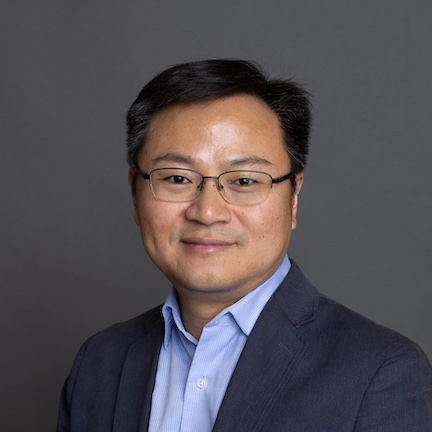
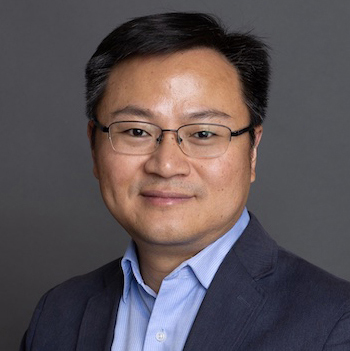
add more publications

diff --git a/publications.html b/publications.html
@@ -85,6 +85,19 @@
                 <li>Li, Jie, George Michelogiannakis, Samuel Maloney, Brandon Cook, Estela Suarez, John Shalf, and Yong Chen. "Job scheduling in high performance computing systems with disaggregated memory resources." In 2024 IEEE International Conference on Cluster Computing (CLUSTER), pp. 297-309. IEEE, 2024.</li>
                 <li>Li, Jie, George Michelogiannakis, Brandon Cook, John Shalf, and Yong Chen. "Scheduling and Allocation of Disaggregated Memory Resources in HPC Systems." In 2024 IEEE International Parallel and Distributed Processing Symposium Workshops (IPDPSW), pp. 1202-1203. IEEE, 2024.</li>
                 <li>Li, Jie, John D. Leidel, Brian Page, and Yong Chen. "Towards Cycle-accurate Simulation of xBGAS." In 2024 International Conference on Computing, Networking and Communications (ICNC), pp. 468-472. IEEE, 2024.</li>
+                <li>G. Ali, M. Side, S. Bhalachandra, T. Dang, A. Sill, Y. Chen. Understanding the Efficacy of Power Profiles: A Case Study ofAMD Instinct MI100 GPU. In Proceedings of the 28th IEEE High Performance Extreme Computing Conference (HPEC'24),2024.</li>
+                <li>M. Beebe, R. Gayatri, K. Gott, A. Lavely, M. Haseeb, B. Cook, and Y. Chen. A Performance Analysis of GPU-Aware MPIImplementations Over the Slingshot-11 Interconnect. In Proceedings of the 28th IEEE High Performance Extreme ComputingConference (HPEC'24), 2024.</li>
+                <li>A. Jordan and Y. Chen. Security Anomaly Detection in Enterprise GitHub. In Proceedings of 2024 ACM PEARC (Practice &Experience in Advanced Research Computing), Pages: 1-5, 2024.</li>
+              </ul>
+              <h3>Technologies or Techniques</h3><br>
+              <ul class="project technology">
+                <li>Software or Netware Disaggregation Aware Scheduler: <a href="https://github.com/Artlands/DisaggregationAwareScheduler" target="_blank">https://github.com/Artlands/DisaggregationAwareScheduler </a></li>
+                <li>Software or Netware Memory Safety Vulnerability Suite for xBGAS on Morello: <a href="https://github.com/mertside/xbrtime-simple/tree/main/security" target="_blank">https://github.com/mertside/xbrtime-simple/tree/main/security</a></li>  
+                <li>Software or Netware xBGAS REV-CPU simulator: <a href="https://github.com/Artlands/rev-xbgas" target="_blank">https://github.com/Artlands/rev-xbgas</a></li>
+                <li>Software or Netware xBGAS Runtime Library: <a href="https://github.com/Artlands/rev-xbgas-runtime" target="_blank">https://github.com/Artlands/rev-xbgas-runtime</a></li>
+                <li>Software or Netware OSSS-UCX: <a href="https://github.com/michael-beebe/osss-ucx" target="_blank">https://github.com/michael-beebe/osss-ucx</a></li>
+                <li>Software or Netware Openshmem-rs: <a href="https://docs.rs/crate/openshmem-rs/latest" target="_blank">https://docs.rs/crate/openshmem-rs/latest</a></li>
+                <li>Software or Netware Visualization tools: <a href="https://idatavisualizationlab.github.io/HPCC/" target="_blank">https://idatavisualizationlab.github.io/HPCC/</a></li>
               </ul>
             </div>
             <div class="collapse collection show" id="2023">
@@ -104,6 +117,13 @@
                 <li>B. Williams, Y. Chen, W. Poole and S. Poole. Exploring Challenges Associated with Employing SmartNICs as General-Purpose HPC Accelerators. Accepted to appear in Proceedings of the 28th IEEE High Performance Extreme ComputingConference (HPEC'23), 2023.</li>
                 <li>G. Ali, M. Side, S. Bhalachandra, N. J. Wright, and Y. Chen, Performance-aware Energy-efficient GPU Frequency Selectionusing DNN-based Models, In Proceedings of the 52nd International Conference on Parallel Processing (ICPP'23),2023.</li>
               </ul>
+              <h3>Technologies or Techniques</h3><br>
+              <ul class="project technology">
+                <li>Software or Netware Benchmarks for xBGAS Runtime for Morello: <a href="https://github.com/mertside/xbrtime-simple/tree/main/bench" target="_blank">https://github.com/mertside/xbrtime-simple/tree/main/bench</a></li>
+                <li>Software or Netware SHMEMVV: <a href="https://github.com/michael-beebe/shmemvv" target="_blank">https://github.com/michael-beebe/shmemvv</a></li>  
+                <li>Software or Netware SHMEMBENCH: <a href="https://github.com/michael-beebe/shmembench" target="_blank">https://github.com/michael-beebe/shmembench</a></li>
+                <li>Software or Netware Visualization tools: <a href="https://idatavisualizationlab.github.io/HPCC/" target="_blank">https://idatavisualizationlab.github.io/HPCC/</a></li>
+              </ul>
             </div>
             <div class="collapse collection show" id="2022">
               <h2>2022:</h2>
@@ -118,6 +138,13 @@
                 <li>Ghanzanfar Ali, Jon Hass, Alan Sill, Elham Hojati, Tommy Dang and Yong Chen. Redfish-Nagios: A Scalable Out-of-BandData Center Monitoring Framework Based on Redfish Telemetry Model. ACM 5th International Workshop on System andNetwork Telemetry and Analytics (SNTA'22) in conjunction with The 31st International Symposium on High-PerformanceParallel and Distributed Computing (HPDC'22)</li>
                 <li>T. Dang, N. Nguyen, J. Li, J. Hass, A. Sill, and Y. Chen. JobViewer: Graph-based Visualization for Monitoring High-Performance Computing System. Accepted to appear in Proceedings of The 9th IEEE/ACM International Conference on BigData Computing, Applications and Technologies (BDCAT'22), 2022.</li>
                 <li>T. Dang and N. Nguyen. MultiProjector: Temporal projection for multivariates time series. International Symposium on VisualComputing ISVC22, 2022. </li>
+                <li>C. Caon. Effective Management of Time Series Data. (2022). Texas Tech University.</li>
+              </ul>
+              <h3>Technologies or Techniques</h3><br>
+              <ul class="project technology">
+                <li>Software or Netware xBGAS Runtime for Morello: <a href="https://github.com/mertside/xbrtime-simple/tree/main/runtime" target="_blank">https://github.com/mertside/xbrtime-simple/tree/main/runtime</a></li>
+                <li>Software or Netware MonSter: <a href="https://github.com/nsfcac/MonSter" target="_blank">https://github.com/nsfcac/MonSter</a></li>  
+                <li>Software or Netware Visualization tools: <a href="https://idatavisualizationlab.github.io/HPCC/" target="_blank">https://idatavisualizationlab.github.io/HPCC/</a></li>
               </ul>
             </div>
             <div class="collapse collection show" id="2021">
